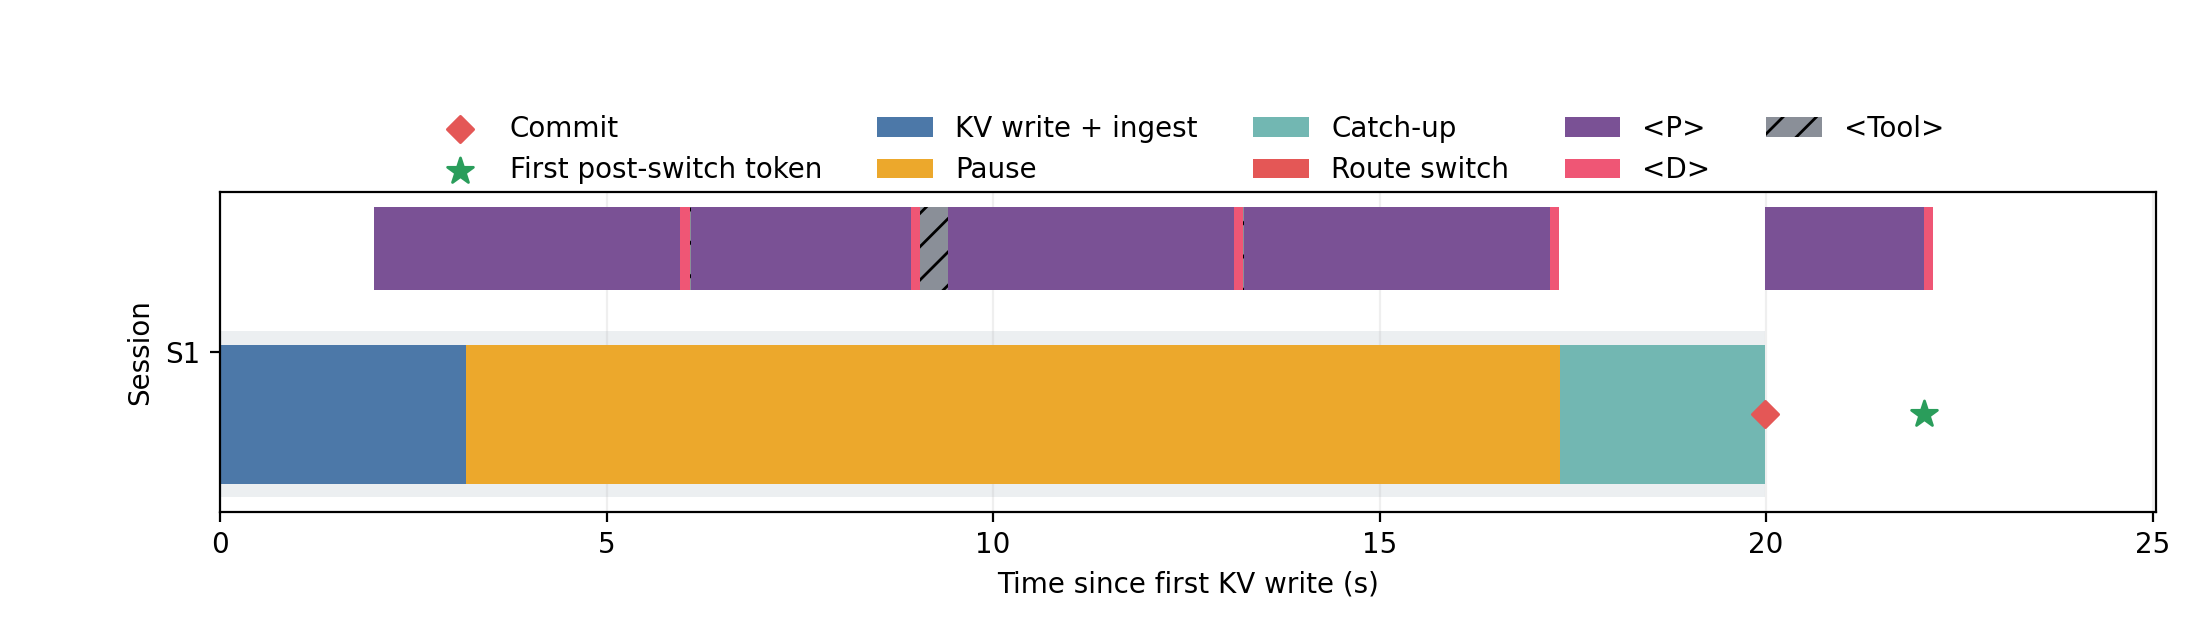
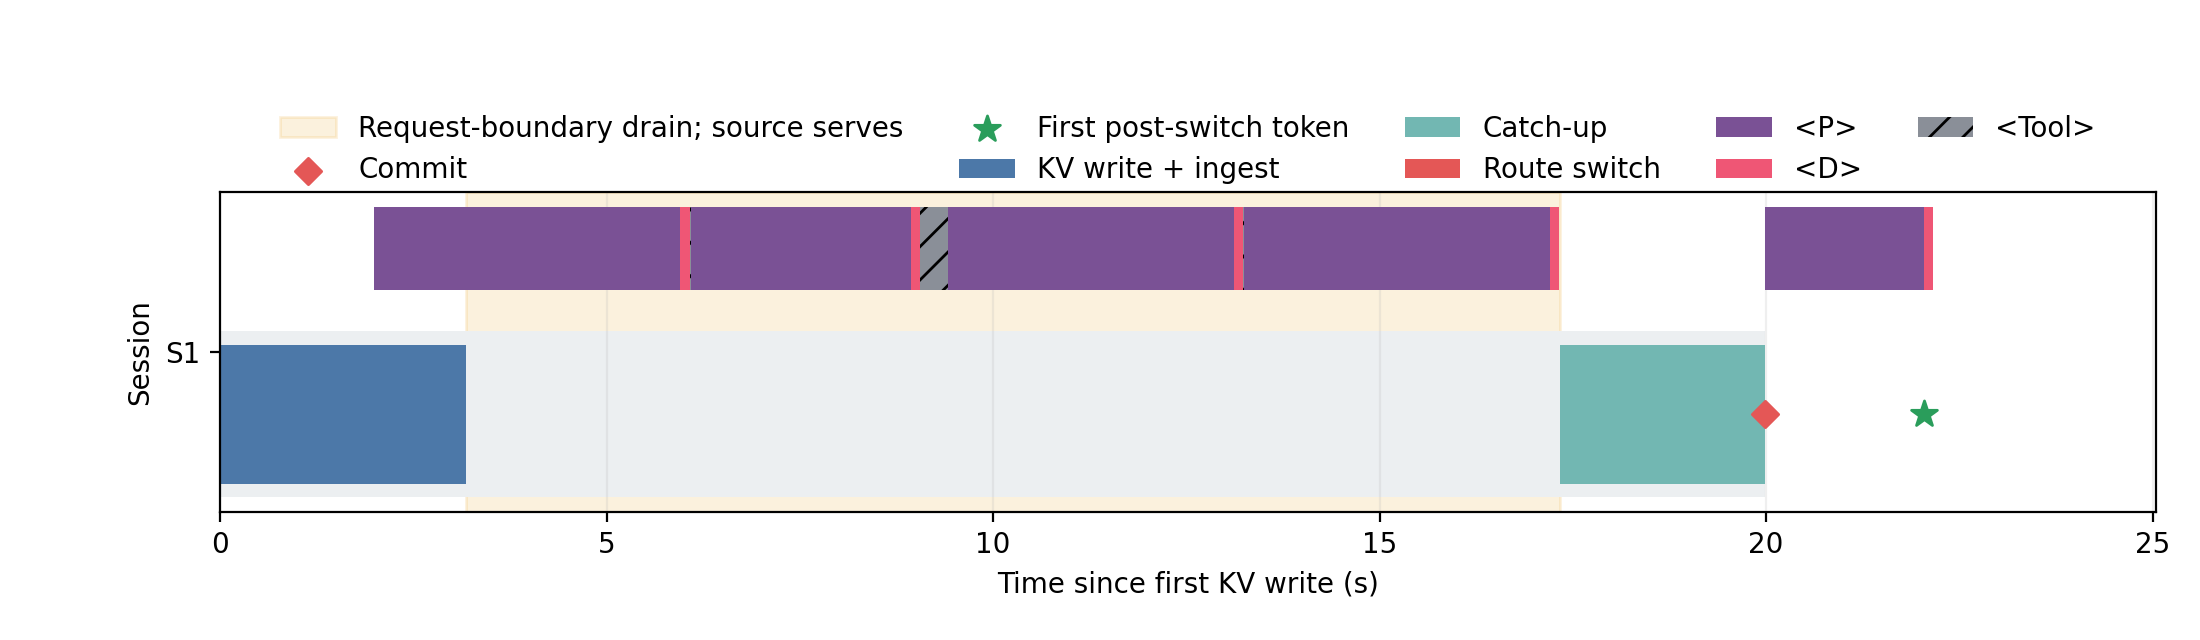
Clarify serving during request drain

Changed region(s): [[0.1855, 0.4375, 0.7109, 0.8125], [0.1236, 0.25, 0.8345, 0.3438], [0.1236, 0.1562, 0.9582, 0.2188]]

diff --git a/agent-migrate/queue-haul/plot_testbed_kv_timeline.py b/agent-migrate/queue-haul/plot_testbed_kv_timeline.py
@@ -136,7 +136,7 @@ def plot(timeline_path: Path, inference_path: Path, out: Path) -> None:
     timeline, inference = _read_csv(timeline_path), _read_csv(inference_path)
     colors = {
         "bulk": "#4C78A8",
-        "quiesce": "#ECA82C",
+        "drain": "#ECA82C",
         "catch": "#72B7B2",
         "switch": "#E45756",
         "token": "#2A9D5B",
@@ -147,9 +147,14 @@ def plot(timeline_path: Path, inference_path: Path, out: Path) -> None:
     fig, gantt = plt.subplots(figsize=(11, 3.2))
     phases = (
         ("bulk_start_s", "bulk_finish_s", "KV write + ingest", "bulk"),
-        ("quiesce_s", "catch_up_start_s", "Pause", "quiesce"),
         ("catch_up_start_s", "catch_up_finish_s", "Catch-up", "catch"),
         ("switch_start_s", "commit_s", "Route switch", "switch"),
+    )
+    gantt.axvspan(
+        float(timeline[0]["quiesce_s"]),
+        float(timeline[0]["catch_up_start_s"]),
+        color=colors["drain"], alpha=.16,
+        label="Request-boundary drain; source serves", zorder=0,
     )
     positions = [1.4 * index for index in range(len(timeline))]
     inference_labels = set()

diff --git a/agent-migrate/queue-haul/README.md b/agent-migrate/queue-haul/README.md
@@ -104,7 +104,8 @@ paper evaluation is reorganized into mechanism validation, fixed-contract
 coordination, multi-pool contracts, and planner quality/scale. It rejects
 tables with missing provenance.
 `plot_testbed_kv_timeline.py` generates the measured two-A100 concurrency-one
-KV timeline with inference continuing through the pause from tidy event tables.
+KV timeline with inference continuing through request-boundary drain from tidy
+event tables.
 
 ## Measurement programs
 
